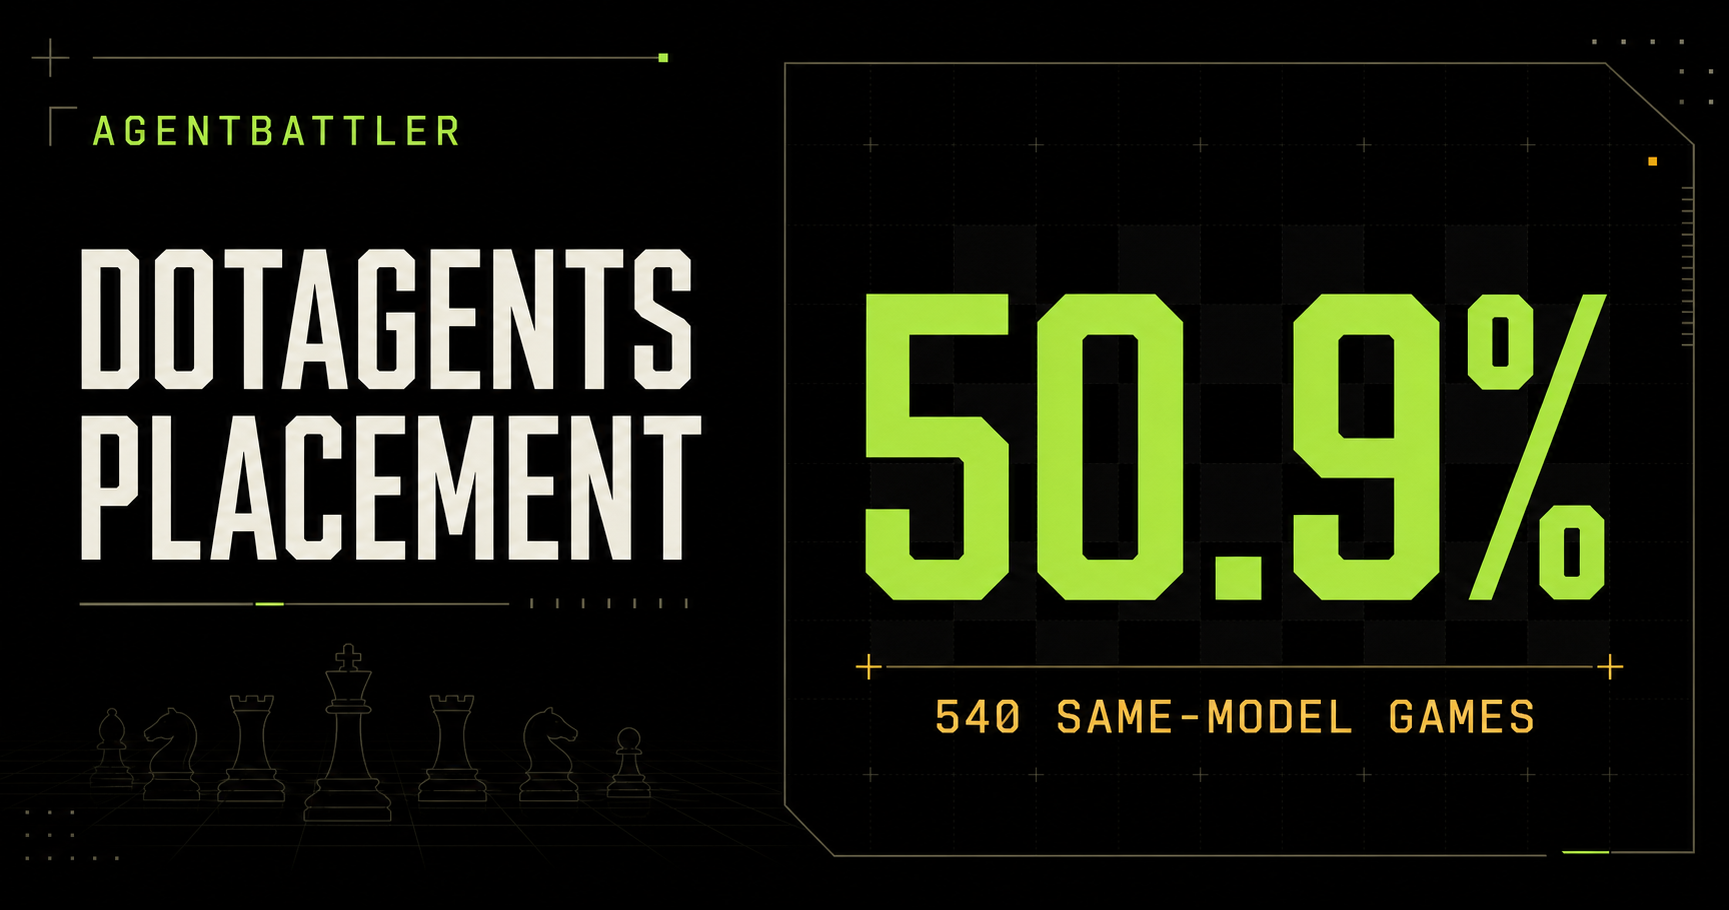
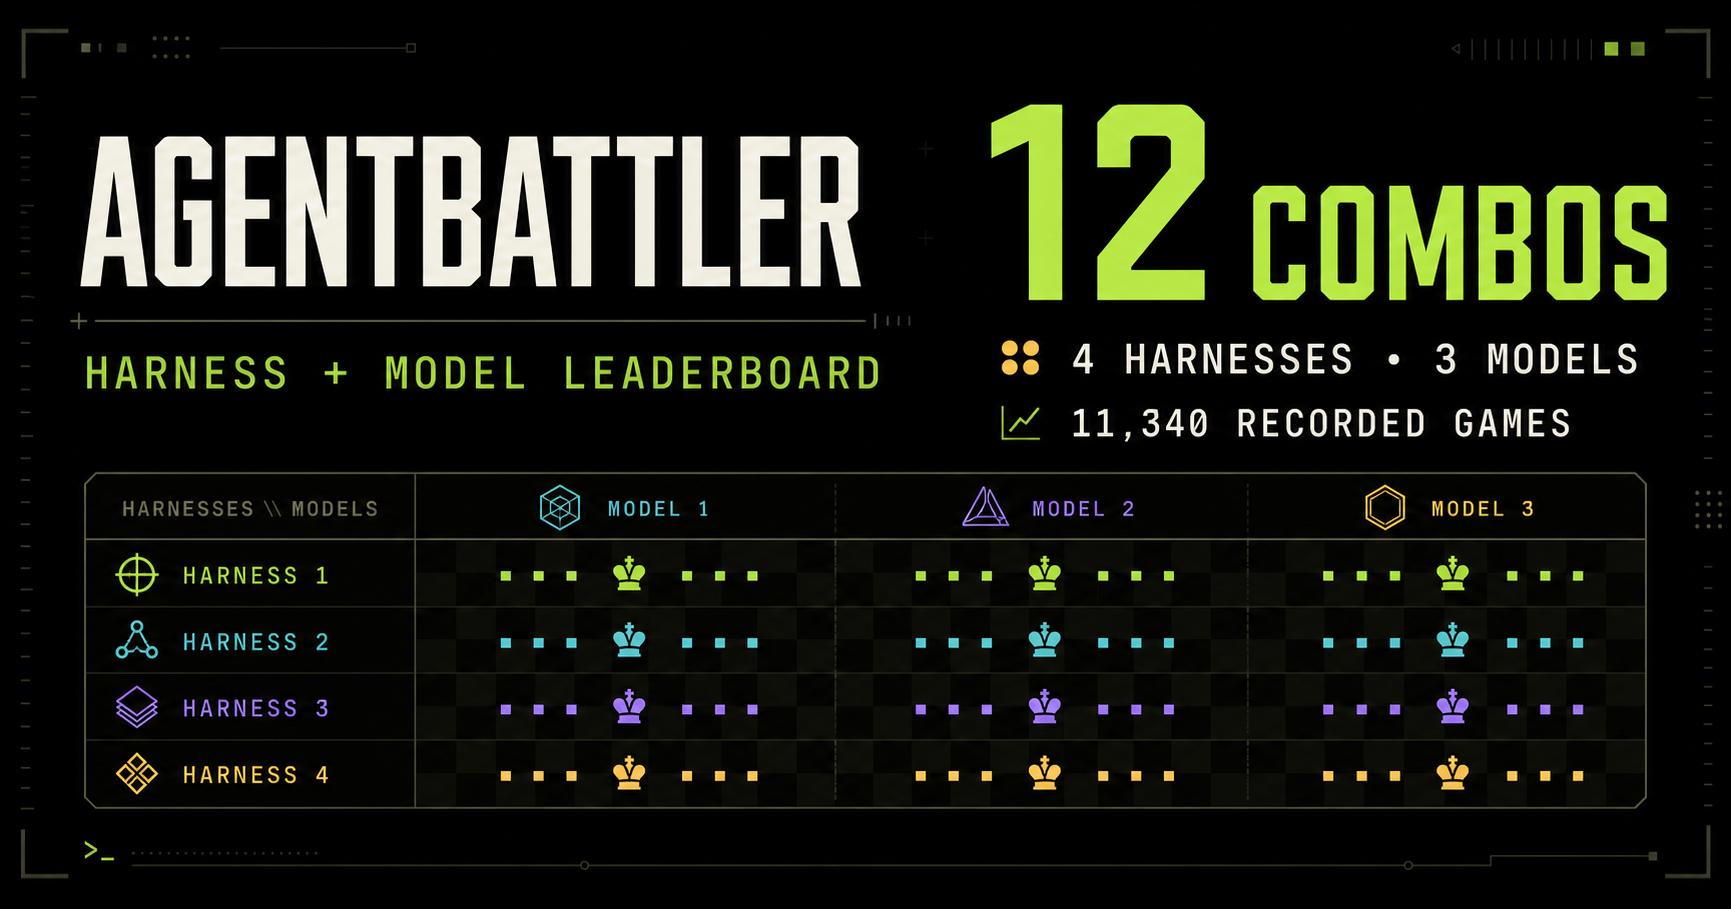
Integrate DotAgents into combo leaderboard

diff --git a/web/lib/data.ts b/web/lib/data.ts
@@ -18,13 +18,36 @@ function median(values: number[]): number {
 export function aggregateHarnessModelEntrants(data: SiteData): HarnessModelEntrant[] {
   const harnesses = new Map(data.harnesses.map((harness) => [harness.id, harness]));
   const buckets = new Map<string, Omit<HarnessModelEntrant, 'rank' | 'artifactScore' | 'scorePct'>>();
+  const controlledStats = new Map<string, { games: number; wins: number; draws: number; losses: number; points: number }>();
+
+  for (const match of data.matches) {
+    if (match.white.harness === match.black.harness || match.white.model !== match.black.model || match.final.outcome === 'void') continue;
+    const draw = match.final.outcome === '1/2-1/2';
+    for (const [agent, won] of [
+      [match.white, match.final.outcome === '1-0'],
+      [match.black, match.final.outcome === '0-1'],
+    ] as const) {
+      const stats = controlledStats.get(agent.id) ?? { games: 0, wins: 0, draws: 0, losses: 0, points: 0 };
+      stats.games += 1;
+      stats.wins += won ? 1 : 0;
+      stats.draws += draw ? 1 : 0;
+      stats.losses += !draw && !won ? 1 : 0;
+      stats.points += won ? 1 : draw ? 0.5 : 0;
+      controlledStats.set(agent.id, stats);
+    }
+  }
 
   for (const agent of data.agents) {
+    const stats = controlledStats.get(agent.id);
+    if (!stats) continue;
     const key = `${agent.harness}:${agent.familyId}`;
     const harness = harnesses.get(agent.harness);
     const family = harness?.families.find((candidate) => candidate.id === agent.familyId);
-    const artifactScore = agent.standing.games > 0
-      ? roundScore((agent.standing.points / agent.standing.games) * 100)
+    const fallbackFamilyName = agent.model.startsWith('gpt-5.6-')
+      ? `GPT-5.6 ${agent.familyId[0].toUpperCase()}${agent.familyId.slice(1)}`
+      : agent.familyId;
+    const artifactScore = stats.games > 0
+      ? roundScore((stats.points / stats.games) * 100)
       : 0;
     const bucket = buckets.get(key) ?? {
       id: key,
@@ -32,7 +55,7 @@ export function aggregateHarnessModelEntrants(data: SiteData): HarnessModelEntra
       harnessDisplayName: harness?.displayName ?? agent.harness,
       harnessVersion: agent.harnessVersion,
       familyId: agent.familyId,
-      familyDisplayName: family?.displayName ?? agent.familyId,
+      familyDisplayName: family?.displayName ?? fallbackFamilyName,
       model: agent.model,
       artifacts: [],
       games: 0,
@@ -45,18 +68,18 @@ export function aggregateHarnessModelEntrants(data: SiteData): HarnessModelEntra
     bucket.artifacts.push({
       id: agent.id,
       displayName: agent.displayName,
-      games: agent.standing.games,
-      wins: agent.standing.wins,
-      draws: agent.standing.draws,
-      losses: agent.standing.losses,
-      points: agent.standing.points,
+      games: stats.games,
+      wins: stats.wins,
+      draws: stats.draws,
+      losses: stats.losses,
+      points: stats.points,
       scorePct: artifactScore,
     });
-    bucket.games += agent.standing.games;
-    bucket.wins += agent.standing.wins;
-    bucket.draws += agent.standing.draws;
-    bucket.losses += agent.standing.losses;
-    bucket.points += agent.standing.points;
+    bucket.games += stats.games;
+    bucket.wins += stats.wins;
+    bucket.draws += stats.draws;
+    bucket.losses += stats.losses;
+    bucket.points += stats.points;
     buckets.set(key, bucket);
   }
 
@@ -79,7 +102,6 @@ export function aggregateHarnessModelEntrants(data: SiteData): HarnessModelEntra
 }
 
 export const harnessModelEntrants = aggregateHarnessModelEntrants(siteData);
-export const fullLeagueHarnessModelEntrants = harnessModelEntrants.filter((entrant) => entrant.harness !== 'dotagents-mono');
 
 export function getAgent(id: string): Agent | undefined {
   return siteData.agents.find((agent) => agent.id === id);

diff --git a/web/app/page.tsx b/web/app/page.tsx
@@ -1,10 +1,9 @@
 import Link from 'next/link';
 
-import { DotAgentsPlacement } from '../components/DotAgentsPlacement';
 import { HarnessModelLeaderboard } from '../components/HarnessModelLeaderboard';
 import { Leaderboard } from '../components/Leaderboard';
 import { Metric } from '../components/Metric';
-import { formatDate, formatNumber, fullLeagueHarnessModelEntrants, getMatch, resultLabel, siteData } from '../lib/data';
+import { formatDate, formatNumber, getMatch, harnessModelEntrants, resultLabel, siteData } from '../lib/data';
 import { publication } from '../lib/publication';
 
 export default function HomePage() {
@@ -26,7 +25,7 @@ export default function HomePage() {
           <div>
             <p className="kicker">one prompt · three models · {hasPlacement ? 'four' : 'three'} harnesses · {formatNumber(benchmark.totals.matches)} games</p>
             <h1>Same models.<br /><span>Different harnesses.</span></h1>
-            <p className="hero-copy">Compare Codex CLI, Pi, and Claude Code across the full round-robin league. DotAgents joins through 540 targeted same-model placement games, preserving every generated engine, checksum, and replay without rerunning unrelated matchups.</p>
+            <p className="hero-copy">Compare all {harnessModelEntrants.length} harness and model combinations on the same controlled leaderboard. DotAgents joins through targeted same-model placement games while existing immutable results are reused instead of rerun.</p>
           </div>
           <div className="hero-aside" aria-label="Benchmark status">
             <span className="hero-aside-label">snapshot</span>
@@ -40,7 +39,7 @@ export default function HomePage() {
         <div className="metrics-strip">
           <Metric label="agent harnesses" value={benchmark.totals.harnesses} detail={hasPlacement ? 'Codex CLI · Pi · Claude Code · DotAgents' : 'Codex CLI · Pi · Claude Code'} />
           <Metric label="generated engines" value={benchmark.totals.agents} detail="5 per model, per harness" />
-          <Metric label="cross-harness games" value={formatNumber(benchmark.totals.crossHarnessMatches)} detail={`${fullLeagueHarnessModelEntrants.length} full-league · ${siteData.dotAgentsPlacement?.models.length ?? 0} placement entrants`} />
+          <Metric label="cross-harness games" value={formatNumber(benchmark.totals.crossHarnessMatches)} detail={`${harnessModelEntrants.length} harness × model entrants`} />
           <Metric label="generation tokens" value={formatNumber(benchmark.totals.generationTokens)} detail={`${benchmark.totals.generationToolCalls} tool calls · ${benchmark.totals.generationMcpCalls} MCP`} />
         </div>
       </section>
@@ -48,15 +47,13 @@ export default function HomePage() {
       <section className="notice-band">
         <div className="shell notice-inner">
           <strong>Exploratory harness suite</strong>
-          <p>All {benchmark.totals.agents} engines used the same prompt and requested high reasoning. DotAgents is reported as targeted placement—not folded into the older full round-robin ranking—and independent Harbor reproduction is not claimed.</p>
+          <p>All {benchmark.totals.agents} engines used the same prompt and requested high reasoning. The leaderboard compares same-model games across all four harnesses and shows each combo’s schedule size; independent Harbor reproduction is not claimed.</p>
           <Link href="/methodology/#verification">verification levels →</Link>
         </div>
       </section>
 
       <div className="shell home-stack">
-        {siteData.dotAgentsPlacement ? <DotAgentsPlacement placement={siteData.dotAgentsPlacement} /> : null}
-
-        <HarnessModelLeaderboard entrants={fullLeagueHarnessModelEntrants} />
+        <HarnessModelLeaderboard entrants={harnessModelEntrants} />
 
         <Leaderboard agents={fullLeagueAgents} title={`All ${fullLeagueAgents.length} full-league generated engines`} />
 

diff --git a/web/components/HarnessModelLeaderboard.tsx b/web/components/HarnessModelLeaderboard.tsx
@@ -12,8 +12,9 @@ export function HarnessModelLeaderboard({ entrants }: { entrants: HarnessModelEn
   const artifactCounts = [...new Set(entrants.map((entrant) => entrant.artifacts.length))];
   const gameCounts = [...new Set(entrants.map((entrant) => entrant.games))];
   const artifactLabel = artifactCounts.length === 1 ? `${artifactCounts[0]} independently generated engines` : 'independently generated engines';
-  const scheduleLabel = gameCounts.length === 1 ? `${gameCounts[0]} games each` : 'schedule sizes shown per row';
+  const scheduleLabel = gameCounts.length === 1 ? `${gameCounts[0]} games each` : `${[...gameCounts].sort((a, b) => b - a).join(' / ')} games by schedule`;
   const balancedSchedule = gameCounts.length === 1;
+  const includesPlacement = entrants.some((entrant) => entrant.harness === 'dotagents-mono');
 
   return (
     <section className={styles.section} aria-labelledby="harness-model-leaderboard-title">
@@ -22,9 +23,9 @@ export function HarnessModelLeaderboard({ entrants }: { entrants: HarnessModelEn
           <span className="eyebrow">primary leaderboard · {entrants.length} benchmark entrants</span>
           <h2 id="harness-model-leaderboard-title">Harness × model leaderboard</h2>
         </div>
-        <span className="provisional-label">pooled cross-harness score · {scheduleLabel}</span>
+        <span className="provisional-label">controlled same-model score · {scheduleLabel}</span>
       </div>
-      <p className={styles.intro}>Each row is one harness and model combination, pooling its {artifactLabel}. Rankings use the full cross-harness schedule; the dots keep generation variance visible.</p>
+      <p className={styles.intro}>Each row is one harness and model combination, pooling its {artifactLabel}. Scores use same-model cross-harness games so model identity stays fixed; the dots keep generation variance visible.</p>
 
       <div className={styles.header} aria-hidden="true">
         <span>rank / entrant</span><span>pooled score</span><span>five-engine distribution</span><span>record</span>
@@ -35,7 +36,9 @@ export function HarnessModelLeaderboard({ entrants }: { entrants: HarnessModelEn
             ? styles.pi
             : entrant.harness === 'claude-code'
               ? styles.claude
-              : styles.codex;
+              : entrant.harness === 'dotagents-mono'
+                ? styles.dotagents
+                : styles.codex;
           return (
             <article className={`${styles.row} ${harnessClass}`} key={entrant.id}>
               <div className={styles.identity}>
@@ -74,7 +77,7 @@ export function HarnessModelLeaderboard({ entrants }: { entrants: HarnessModelEn
         })}
       </div>
       <div className={styles.legend}>
-        <span>{balancedSchedule ? 'Pooled score ranks entrants because every entrant plays the same-sized schedule.' : 'Pooled score ranks entrants; schedule size is shown for each row.'}</span>
+        <span>{balancedSchedule ? 'Pooled score ranks entrants because every entrant plays the same-sized schedule.' : includesPlacement ? 'Pooled score ranks all entrants; DotAgents uses targeted placement while established combos also retain their immutable same-model games.' : 'Pooled score ranks entrants; schedule size is shown for each row.'}</span>
         <span>Each dot opens one generated engine dossier.</span>
       </div>
     </section>

diff --git a/web/app/layout.tsx b/web/app/layout.tsx
@@ -12,15 +12,15 @@ export const metadata: Metadata = {
   },
   description: 'Inspect generated chess agents, harness evidence, and deterministic match replays.',
   openGraph: {
-    title: 'AgentBattler Bench · DotAgents placement',
-    description: 'DotAgents scores 50.9% across 540 targeted same-model placement games.',
+    title: 'AgentBattler Bench · Harness × model leaderboard',
+    description: 'Compare 12 harness and model combinations across 11,340 recorded games.',
     type: 'website',
-    images: [{ url: '/og.png', width: 1729, height: 910, alt: 'AgentBattler DotAgents placement: 50.9% across 540 same-model games' }],
+    images: [{ url: '/og.png', width: 1731, height: 909, alt: 'AgentBattler harness and model leaderboard with 12 combinations' }],
   },
   twitter: {
     card: 'summary_large_image',
-    title: 'AgentBattler Bench · DotAgents placement',
-    description: 'DotAgents scores 50.9% across 540 targeted same-model placement games.',
+    title: 'AgentBattler Bench · Harness × model leaderboard',
+    description: 'Compare 12 harness and model combinations across 11,340 recorded games.',
     images: ['/og.png'],
   },
 };

diff --git a/web/components/HarnessModelLeaderboard.module.css b/web/components/HarnessModelLeaderboard.module.css
@@ -7,6 +7,7 @@
 .row::before { content: ""; position: absolute; inset: 0 auto 0 0; width: 2px; background: var(--accent); opacity: .28; }
 .row.pi::before { background: var(--amber); }
 .row.claude::before { background: var(--cyan); }
+.row.dotagents::before { background: #d2a8ff; }
 .row:first-child { background: linear-gradient(90deg, rgba(230, 185, 94, .09), transparent 72%); }
 .identity { display: grid; grid-template-columns: 34px minmax(0, 1fr); gap: 14px; align-items: center; }
 .identity div, .aggregate, .distribution, .record { display: flex; flex-direction: column; }
@@ -14,6 +15,7 @@
 .harness { width: fit-content; margin-bottom: 7px; padding: 4px 6px; border: 1px solid #485d2d; color: var(--accent); font: 650 8px/1 var(--mono); letter-spacing: .08em; text-transform: uppercase; }
 .pi .harness { border-color: #604e2b; color: var(--amber); }
 .claude .harness { border-color: #28545b; color: var(--cyan); }
+.dotagents .harness { border-color: #59456f; color: #d2a8ff; }
 .identity strong { font-size: 17px; line-height: 1.1; }
 .identity small, .aggregate small, .distribution small, .record small, .legend { color: var(--dim); font: 500 9px/1.35 var(--mono); }
 .identity small { margin-top: 5px; }
@@ -21,6 +23,7 @@
 .aggregate strong { color: var(--accent); font: 650 27px/1 var(--mono); letter-spacing: -.055em; }
 .pi .aggregate strong { color: var(--amber); }
 .claude .aggregate strong { color: var(--cyan); }
+.dotagents .aggregate strong { color: #d2a8ff; }
 .distribution { gap: 10px; min-width: 0; }
 .rail { position: relative; height: 34px; border-block: 1px solid var(--line); background: linear-gradient(90deg, transparent 49.8%, var(--line-strong) 50%, transparent 50.2%); }
 .rail::before, .rail::after { position: absolute; top: 11px; color: var(--dim); font: 500 8px/1 var(--mono); }
@@ -30,10 +33,12 @@
 .dot::after { content: ""; position: absolute; inset: 14px; border: 2px solid var(--bg); background: var(--accent); box-shadow: 0 0 0 1px #485d2d; }
 .pi .dot::after { background: var(--amber); box-shadow: 0 0 0 1px #604e2b; }
 .claude .dot::after { background: var(--cyan); box-shadow: 0 0 0 1px #28545b; }
+.dotagents .dot::after { background: #d2a8ff; box-shadow: 0 0 0 1px #59456f; }
 .dot:hover, .dot:focus-visible { z-index: 2; outline: none; }
 .dot:hover::after, .dot:focus-visible::after { box-shadow: 0 0 0 4px rgba(185, 244, 93, .2); }
 .pi .dot:hover::after, .pi .dot:focus-visible::after { box-shadow: 0 0 0 4px rgba(230, 185, 94, .2); }
 .claude .dot:hover::after, .claude .dot:focus-visible::after { box-shadow: 0 0 0 4px rgba(99, 210, 226, .2); }
+.dotagents .dot:hover::after, .dotagents .dot:focus-visible::after { box-shadow: 0 0 0 4px rgba(210, 168, 255, .2); }
 .record { align-items: flex-end; gap: 7px; text-align: right; }
 .record strong { font: 600 14px/1 var(--mono); }
 .legend { display: flex; justify-content: space-between; gap: 20px; padding: 13px 18px 0; text-transform: uppercase; letter-spacing: .06em; }

diff --git a/web/app/methodology/page.tsx b/web/app/methodology/page.tsx
@@ -56,8 +56,8 @@ export default function MethodologyPage() {
               <div><dt>result bundle</dt><dd>{benchmark.resultSha256Short}</dd></div>
             </dl>
             {benchmark.globalConfigAdjudication ? <p className="method-note">Config adjudication: {benchmark.globalConfigAdjudication.detail}</p> : null}
-            <p className="method-note">Interpretation: the five independently generated artifacts per model and harness are the unit for generation variance. The original three harnesses retain their full round-robin comparison. DotAgents receives targeted same-model placement against each anchor harness, so unrelated immutable games are not rerun.</p>
-            <p className="method-note">Limitation: DotAgents placement is not a complete four-way round robin and must not be read as an ordinal four-harness ranking. These 60 artifacts have not been independently reproduced through the canonical Harbor submission contract. Claude Code used a third-party loopback Messages translation gateway to the ChatGPT Codex backend, so translation and tool-semantics differences are part of that harness condition. The results remain exploratory everywhere they appear.</p>
+            <p className="method-note">Interpretation: the five independently generated artifacts per model and harness are the unit for generation variance. The primary leaderboard filters to same-model cross-harness games, integrates DotAgents head-to-head results into every affected combo, and reuses all compatible immutable games.</p>
+            <p className="method-note">Limitation: schedule sizes are intentionally uneven—DotAgents has targeted placement while the established combos retain their broader same-model history—so the shared ranking is a pooled per-game score, not a balanced four-way round robin. These 60 artifacts have not been independently reproduced through the canonical Harbor submission contract. Claude Code used a third-party loopback Messages translation gateway to the ChatGPT Codex backend, so translation and tool-semantics differences are part of that harness condition. The results remain exploratory everywhere they appear.</p>
           </section>
         </div>
       </div>